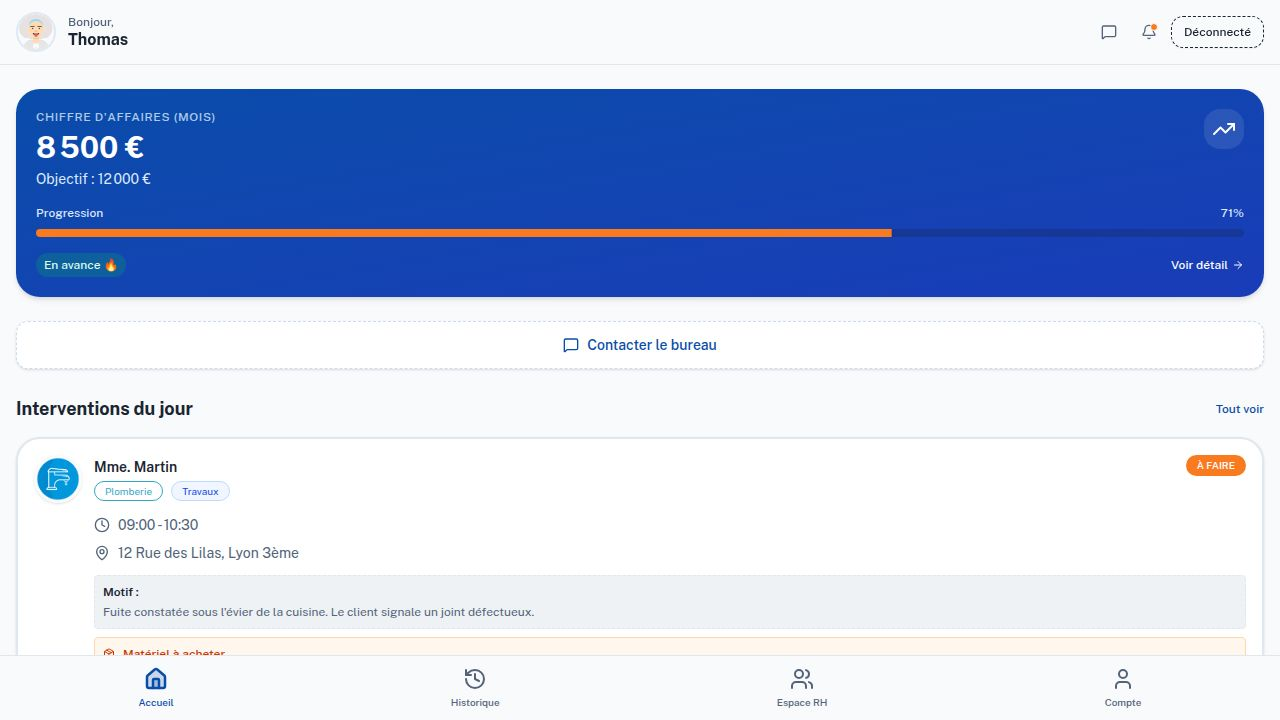
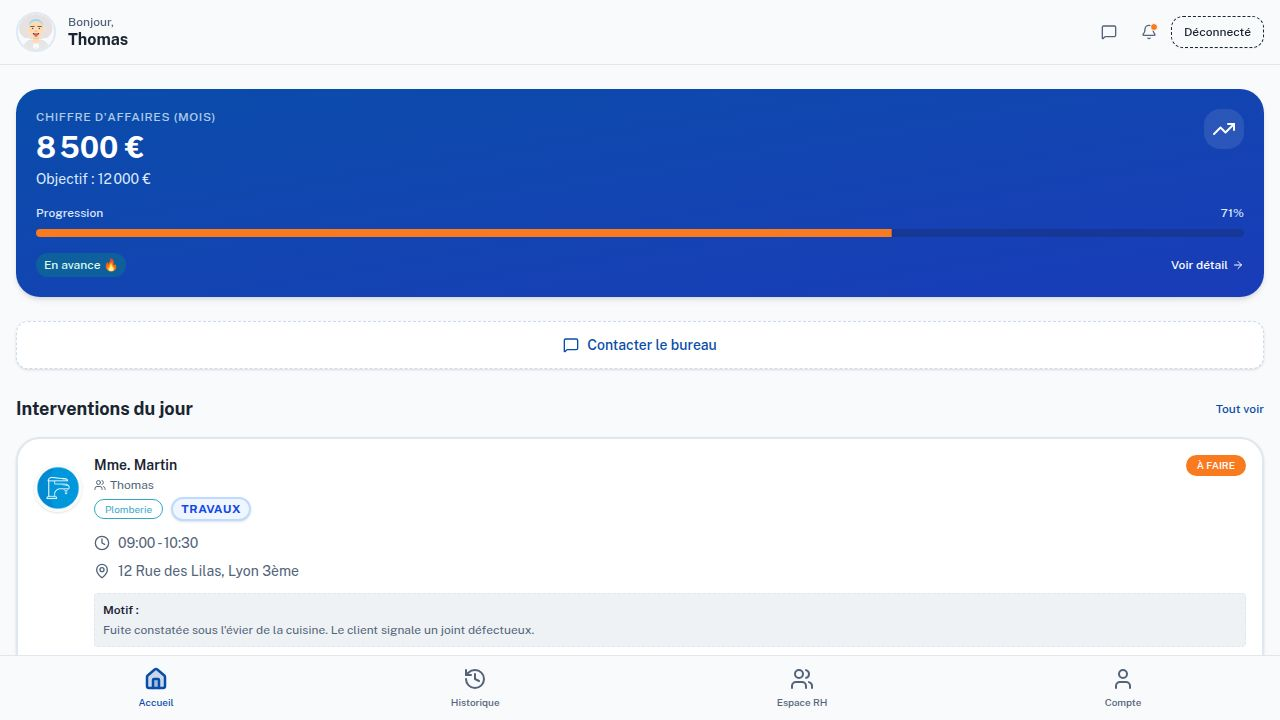
Update dashboard to show multiple technicians and contact bureau button
Add technician names to intervention cards and replace chat logo with "Contacter bureau" button, including unread message notifications.

Replit-Commit-Author: Agent
Replit-Commit-Session-Id: e3d2e26d-42c7-4eb8-9a5a-2ed2e588a0b7
Replit-Commit-Checkpoint-Type: full_checkpoint
Replit-Commit-Event-Id: 7d4bf12f-b18d-4905-ac44-c8a9e83b9149
Replit-Commit-Screenshot-Url: https://storage.googleapis.com/screenshot-production-us-central1/1a1bfa06-2ce7-47d2-bb46-5999b1fea006/e3d2e26d-42c7-4eb8-9a5a-2ed2e588a0b7/gUc7LLr
Replit-Helium-Checkpoint-Created: true

Changed region(s): [[0.0312, 0.6111, 0.4375, 0.9167]]

diff --git a/client/src/components/dashboard/InterventionCard.tsx b/client/src/components/dashboard/InterventionCard.tsx
@@ -2,7 +2,7 @@ import { Card, CardContent, CardFooter } from "@/components/ui/card";
 import { Badge } from "@/components/ui/badge";
 import { Button } from "@/components/ui/button";
 import { Intervention, TRADE_CONFIG, CRM_TYPE_LABELS, CRM_TYPE_COLORS } from "@/lib/mockData";
-import { MapPin, Clock, MessageSquare, ArrowRight, Play, BellRing, Package } from "lucide-react";
+import { MapPin, Clock, MessageSquare, ArrowRight, Play, BellRing, Package, Users, Building2 } from "lucide-react";
 import { Link } from "wouter";
 import { cn } from "@/lib/utils";
 import { useToast } from "@/hooks/use-toast";
@@ -53,6 +53,14 @@ export function InterventionCard({ intervention }: InterventionCardProps) {
             </div>
             <div>
               <p className="text-sm font-semibold text-foreground line-clamp-1">{intervention.clientName}</p>
+              
+              {intervention.technicians && intervention.technicians.length > 0 && (
+                <div className="flex items-center gap-1 text-xs text-muted-foreground my-0.5">
+                    <Users className="h-3 w-3" />
+                    <span>{intervention.technicians.join(", ")}</span>
+                </div>
+              )}
+
               <div className="flex gap-2 mt-1 flex-wrap items-center">
                  {intervention.types.map(type => (
                      <Badge key={type} variant="outline" className={cn("text-[10px] py-0 h-5 font-normal border bg-white", TRADE_CONFIG[type]?.color, "border-current opacity-80")}>
@@ -120,11 +128,12 @@ export function InterventionCard({ intervention }: InterventionCardProps) {
          
          <div className="flex gap-2">
             <ChatSheet context={`Intervention #${intervention.id.split('-')[1]}`} trigger={
-                <Button size="icon" variant="outline" className={cn(
-                    "h-8 w-8 relative",
+                <Button size="sm" variant="outline" className={cn(
+                    "gap-2 relative",
                     intervention.id === "int-101" && "border-blue-300 bg-blue-50 text-blue-700"
                 )}>
-                    <MessageSquare className="h-4 w-4" />
+                    <Building2 className="h-4 w-4" />
+                    <span className="hidden sm:inline">Contacter bureau</span>
                     {intervention.id === "int-101" && (
                         <span className="absolute -top-2 -right-2 h-5 w-5 bg-red-500 rounded-full border-2 border-white text-[10px] text-white flex items-center justify-center font-bold">
                             2

diff --git a/client/src/lib/mockData.ts b/client/src/lib/mockData.ts
@@ -39,6 +39,7 @@ export interface Intervention {
   crmType: "a_definir" | "travaux" | "rdf";
   materialsStatus: "none" | "provided" | "to_buy";
   materialsList?: string;
+  technicians?: string[];
 }
 
 export interface Technician {
@@ -106,7 +107,8 @@ export const MOCK_INTERVENTIONS: Intervention[] = [
     reportStatus: "pending",
     crmType: "travaux",
     materialsStatus: "to_buy",
-    materialsList: "Joints standard 15/21, Siphon PVC d40"
+    materialsList: "Joints standard 15/21, Siphon PVC d40",
+    technicians: ["Thomas"]
   },
   {
     id: "int-102",
@@ -121,7 +123,8 @@ export const MOCK_INTERVENTIONS: Intervention[] = [
     description: "Porte d'entrée difficile à fermer. Frottement en bas à droite.",
     reportStatus: "pending",
     crmType: "a_definir",
-    materialsStatus: "none"
+    materialsStatus: "none",
+    technicians: ["Thomas", "Lucas"]
   },
   {
     id: "int-103",
